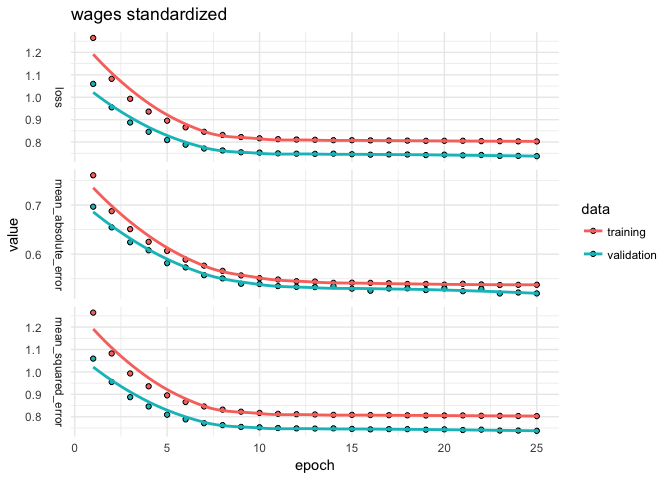
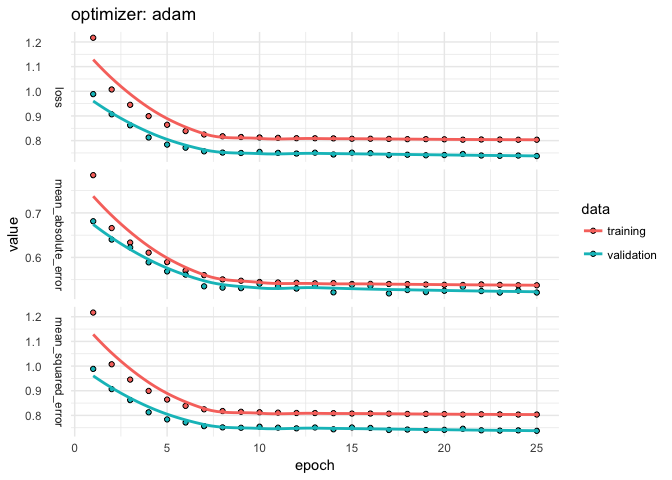
adding sgd

diff --git a/examples/prelim_tests.md b/examples/prelim_tests.md
@@ -172,44 +172,65 @@ keras_model_seq %>% compile(
   metrics = c("mean_absolute_error", "mean_squared_error")
 )
 
-#history <- keras_model_seq %>% fit(x_train, logy_train,
-#                                   epochs = 6, # stable up to at least 25 epochs 
-#                                   batch_size = 32,
-#                                   validation_split = 0.2)
-#
-#plot(history) + theme_minimal() + ggtitle("wages on log10 scale")
-
-#keras_model_seq <- keras_model_sequential()
-#keras_model_seq %>% layer_dense(units = c(P), input_shape = c(P)) %>%
-#  layer_activation("linear") %>% layer_dense(1)
-#keras_model_seq %>% compile(
-#  loss = loss_mean_squared_error,
-#  optimizer = optimizer_adam(),
-#  metrics = c("mean_absolute_error", "mean_squared_error")
-#)
-#score_logy <- evaluate(keras_model_seq, x_test, logy_test)
-
-history_z <- keras_model_seq %>% fit(x_train, z_train,
-                                   epochs = 25, # stable up to at least 25 epochs 
-                                   batch_size = 64,
+history_mse <- keras_model_seq %>% fit(x_train, z_train,
+                                   epochs = 25, 
+                                   batch_size = 32,
                                    validation_split = 0.2)
 
-plot(history_z) + theme_minimal() + ggtitle("wages standardized")
+plot(history_mse) + theme_minimal() + ggtitle("optimizer: adam")
 ```
 
 ![](prelim_tests_files/figure-markdown_github-ascii_identifiers/unnamed-chunk-2-1.png)
 
 ``` r
-score_z <- evaluate(keras_model_seq, x_test, z_test)
+score <- evaluate(keras_model_seq, x_test, z_test)
 
-loss <- cbind(loss, c(score_z$mean_absolute_error*sd(pe$wageinc[trnidxs]), score_z$mean_squared_error*var(pe$wageinc[trnidxs])))
-colnames(loss)[5] <- "keras_z"
-loss
+loss <- cbind(loss, c(score$mean_absolute_error*sd(pe$wageinc[trnidxs]), score$mean_squared_error*var(pe$wageinc[trnidxs])))
+colnames(loss)[5] <- "keras_adam"
 ```
 
-                               nnet           lm         plm2          pl3
-    Mean Abs Error     2.478746e+04 2.578643e+04 2.523922e+04 2.488243e+04
-    Mean Squared Error 1.787254e+09 1.852735e+09 1.802439e+09 1.788490e+09
-                            keras_z
-    Mean Abs Error     2.590607e+04
-    Mean Squared Error 1.878710e+09
+Now for sgd as the optimizer...
+
+``` r
+keras_model_seq <- keras_model_sequential()
+keras_model_seq %>% layer_dense(units = c(P), input_shape = c(P)) %>%
+  layer_activation("linear") %>% layer_dense(1)
+
+keras_model_seq %>% compile(
+  loss = loss_mean_squared_error,
+  optimizer = optimizer_sgd(),
+  metrics = c("mean_absolute_error", "mean_squared_error")
+)
+
+history_mse <- keras_model_seq %>% fit(x_train, z_train,
+                                   epochs = 25,
+                                   batch_size = 32,
+                                   validation_split = 0.2)
+
+plot(history_mse) + theme_minimal() + ggtitle("optimizer: stochastic gradient descent")
+```
+
+![](prelim_tests_files/figure-markdown_github-ascii_identifiers/unnamed-chunk-3-1.png)
+
+``` r
+score <- evaluate(keras_model_seq, x_test, z_test)
+
+loss <- cbind(loss, c(score$mean_absolute_error*sd(pe$wageinc[trnidxs]), score$mean_squared_error*var(pe$wageinc[trnidxs])))
+colnames(loss)[6] <- "keras_sgd"
+
+round(loss, 0)
+```
+
+                             nnet         lm       plm2        pl3 keras_adam
+    Mean Abs Error          24787      25786      25239      24882      25945
+    Mean Squared Error 1787254456 1852735427 1802438648 1788490321 1877684194
+                        keras_sgd
+    Mean Abs Error          25444
+    Mean Squared Error 1870422830
+
+``` r
+# MSE and mean absolute error the same in same order?
+cor(loss[1,], loss[2,], method = "spearman")
+```
+
+    [1] 0.9428571
